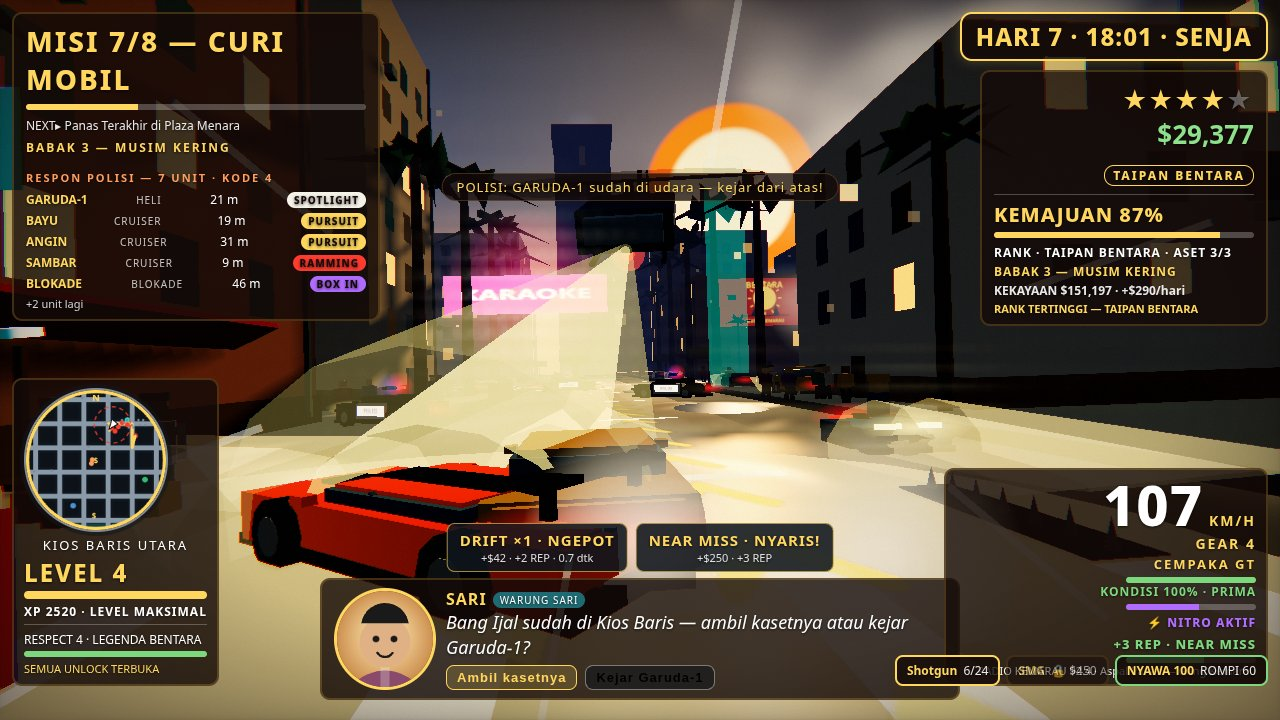
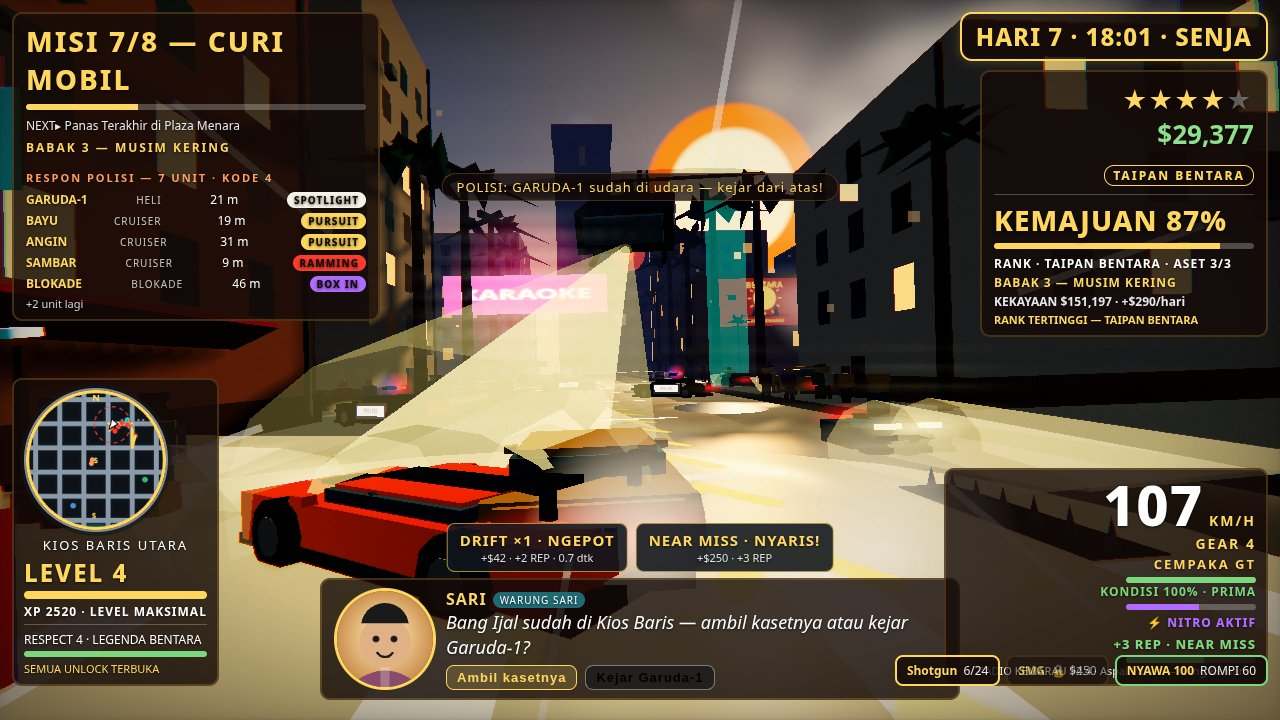
r19-take3: karaoke stage reads at 256px (platform 1.0m, crowd clear of sightline, green LEDs under bloom threshold), 87% bigger (28px)

Changed region(s): [[0.75, 0.275, 0.9688, 0.4889]]

diff --git a/game/src/shots.js b/game/src/shots.js
@@ -1234,13 +1234,21 @@ export function stageShot(name, game, atSeconds) {
     // 47.1, z 97.8–102.2 after the 1.25x group scale) now covers the
     // old (44–46, 100–101) spots, and the props would have been buried
     // under it. Still "beside the karaoke corner", still uncollected.
+    // R19 take-3 fix #10 — the tapes move ONTO the stage as a display:
+    // the 1.25 m platform hides the 0.7 m tapes behind its front face
+    // from the foot lens (sightline math: the ray to (48,101) crosses
+    // the platform rect below its top), so they sit on the platform's
+    // north-east corner instead — (46.5,101) + (46,102), both inside
+    // the QA stallProps probe (centre (47.75,101), r 3) with the idol.
+    // Their mesh y is raised AFTER the sim (see below), since
+    // collectibles.update overwrites it with the bob every step.
     const stallIdol = stageCollectible(G, 48, 100, 'idol');
-    const stallTape1 = stageCollectible(G, 48, 101, 'tape');
-    const stallTape2 = stageCollectible(G, 48, 102, 'tape');
+    const stallTape1 = stageCollectible(G, 46.5, 101, 'tape');
+    const stallTape2 = stageCollectible(G, 46, 102, 'tape');
     if (stallTape1 && stallTape1.mesh) stallTape1.mesh.scale.setScalar(1.5);
     if (stallTape2 && stallTape2.mesh) stallTape2.mesh.scale.setScalar(1.5);
     const stallGlow = makeGlowSprite(0xffd75e, 3.0, 0.5);
-    stallGlow.position.set(48, 0.8, 101);
+    stallGlow.position.set(46.2, 1.7, 101.5);
     G.view.scene.add(stallGlow);
     // R19 take-2 fix #10 — the market's scattered props can land ON the
     // stage footprint (the take-3 shoot had a crate at (41.8,99.8),
@@ -1321,7 +1329,14 @@ export function stageShot(name, game, atSeconds) {
     ];
     // Warung crowd: four peds standing tight under the awning at the
     // Warung Sari sign (42,3.2,96) — the market's life, not fleeing.
-    const warungCrowd = [[38, 96], [42, 96], [44, 97], [40, 97]];
+    // R19 take-3 fix #10 (in-game-photography: framing within the
+    // frame — the crowd is a FOREGROUND frame, not a block): the old
+    // spots (38–44, 96–97) stood directly on the camera→stage
+    // sightline, ~5.5 m from the lens, hiding the performers + the
+    // platform's centre. Now they FLANK the sign instead — two either
+    // side of it, two west by the stalls — so the sightline to the
+    // stage runs clear between them.
+    const warungCrowd = [[38, 96], [46, 97], [32, 99], [34, 101]];
     G.peds.peds.slice(0, footPedSpots.length).forEach((p, k) => {
       p.setPos(footPedSpots[k][0], footPedSpots[k][1]);
       p.target = { x: footPedSpots[k][0] + (k % 2 === 0 ? 10 : -10), z: footPedSpots[k][1] - 8 };
@@ -1532,11 +1547,16 @@ export function stageShot(name, game, atSeconds) {
     // pressed on each beat); the performers + Sari are staging, the
     // singing is live.
     // R19 take-2 fix #10 — the performers + Sari stand ON the stage:
-    // platform top is 0.6 m in the karaoke group, x1.25 group scale =
-    // 0.75 m world. setPos only touches x/z (Human.setPos), so the
+    // platform top is 1.0 m in the karaoke group, x1.25 group scale =
+    // 1.25 m world. setPos only touches x/z (Human.setPos), so the
     // height goes on group.position.y after. Without it they stand on
     // the street with the platform cutting them at the knees.
-    const STAGE_TOP = 0.75;
+    // R19 take-3: STAGE_TOP 0.75 -> 1.25 (platform 1.0 m). At 1.25 m
+    // the platform's front face is a tall visible band, and the
+    // performers' heads (~3.05 m) peek OVER the foreground crowd
+    // (in-game-photography: depth layers — FG crowd frames, MG
+    // performers + platform are the subject, market/sign the BG).
+    const STAGE_TOP = 1.25;
     G.view.scene.traverse((obj) => {
       if (obj.isGroup && Math.hypot(obj.position.x - 44, obj.position.z - 100) < 0.5 && obj.position.y === 0) {
         obj.scale.setScalar(1.25);
@@ -1563,6 +1583,17 @@ export function stageShot(name, game, atSeconds) {
       p.armR.rotation.x = -1.4;
       p.torso.rotation.x = 0;
     });
+    // R19 take-3 — the stall TAPES onto the platform as a display:
+    // their x/z were staged on the platform's north-east corner above,
+    // but during the sim they sat at ground level (y = bob ±0.12),
+    // buried INSIDE the 1.25 m platform box. Raise the mesh groups to
+    // the platform top NOW, after the last G.step — nothing steps
+    // collectibles again before the render (the karaoke loop below
+    // calls only karaoke.update), so the bob overwrite cannot undo it.
+    // The tape shells (1.5x, centre +1.2 m) then sit at ~2.45 m world,
+    // visible above the platform's front face from the foot lens.
+    if (stallTape1 && stallTape1.mesh) stallTape1.mesh.position.y = STAGE_TOP;
+    if (stallTape2 && stallTape2.mesh) stallTape2.mesh.position.y = STAGE_TOP;
     // Recording 18 — KARAOKE, mid-session at the freeze: start a real
     // session at the karaoke corner (44,100 — ahead-right of the player)
     // and drive it through the module's own update/press path for ~6

diff --git a/game/src/karaoke.js b/game/src/karaoke.js
@@ -30,38 +30,53 @@ export function createKaraoke(scene, rng, hooks) {
   let lastQuality = '';
 
   // 3D props at the karaoke corner: a RAISED STAGE, not a mic on bare
-  // ground — a 5 x 3.5 m platform (top 0.6 m) with a glowing acid-green
+  // ground — a 5 x 3.5 m platform (top 1.0 m) with a glowing acid-green
   // front edge, two speaker stacks flanking the mic stand, LED strips
   // at the front corners, and the beat rings on the ground IN FRONT of
   // the stage, where the singer stands. R19 take-2 fix #10: the old
   // flat group (one mic, two small dark boxes, thin strips) never read
   // as a stage at 256 px — the platform + glowing edge + stacks are
   // what make it nameable as "a karaoke stage" from the sheet.
+  // R19 take-3 fix #10 (in-game-photography: depth layers FG/MG/BG —
+  // the platform is the midground subject, its front face a tall band
+  // the eye reads as a stage, not ground shadow): platform raised
+  // 0.6 -> 1.0 m, so its front face is a full metre tall and the
+  // performers' heads (~3 m) peek OVER the foreground crowd.
   const group = new THREE.Group();
   group.position.set(KARAOKE_SPOT.x, 0, KARAOKE_SPOT.z);
-  const STAGE_TOP = 0.6;
+  const STAGE_TOP = 1.0;
   const standMat = new THREE.MeshLambertMaterial({ color: 0x2a2a2a });
   // Raised platform: dark, so the glowing edge + performers on top read.
   const platform = new THREE.Mesh(
-    new THREE.BoxGeometry(5.0, 0.6, 3.5),
+    new THREE.BoxGeometry(5.0, 1.0, 3.5),
     new THREE.MeshLambertMaterial({ color: 0x232d3a }),
   );
-  platform.position.y = 0.3;
+  platform.position.y = 0.5;
   group.add(platform);
   // Mic stand ON the platform, centre-stage, slightly forward.
   const pole = new THREE.Mesh(new THREE.CylinderGeometry(0.06, 0.08, 1.5, 8), standMat);
   pole.position.set(0, STAGE_TOP + 0.75, -0.3);
   const mic = new THREE.Mesh(new THREE.SphereGeometry(0.14, 10, 8), new THREE.MeshLambertMaterial({ color: 0xff2e88, emissive: 0xff2e88, emissiveIntensity: 3 }));
   mic.position.set(0, STAGE_TOP + 1.55, -0.3);
-  // R19 (L2/L4): acid-green LED strips — emissive accents (intensity
-  // 4) that clear the bloom threshold and read as points of light at
-  // 256 px, in the cyan/magenta/acid-green neon palette (never
-  // orange/amber). Take-2: thicker + taller at the front corners, PLUS
-  // a full-width strip along the platform's front top edge — the
-  // glowing line that says "stage" at thumbnail size.
+  // R19 (L2/L4): acid-green LED strips — emissive accents that clear
+  // the bloom threshold and read as points of light at 256 px, in the
+  // cyan/magenta/acid-green neon palette (never orange/amber).
+  // Take-2: thicker + taller at the front corners, PLUS a full-width
+  // strip along the platform's front top edge — the glowing line that
+  // says "stage" at thumbnail size. Take-3 (threejs-postprocessing:
+  // selective bloom — threshold 0.85, only emissives clear it; and
+  // threejs-exposure-color-grading: measured, not stacked): the old
+  // 4x emissive blew past the threshold and bloomed to WHITE bars,
+  // not green stage lighting — and 2x STILL did (verified in the
+  // take-3 first shoot: the west strip rendered a fat white bar and
+  // its bloom wash veiled the speaker stack behind it). 1x sits
+  // BELOW the threshold (luminance ~0.70 < 0.85), so the strips do
+  // not bloom at all: MeshBasic renders flat acid green, and the
+  // hue — the thing that says "stage lighting" — survives. The glow
+  // is deliberately given up; colour accuracy wins at 256 px.
   const ledMat = new THREE.MeshBasicMaterial();
-  // Acid-green (0x39ff6a) at 4x — emissive intensity 4 in the L2 sense.
-  ledMat.color.setRGB(0.22 * 4, 1.0 * 4, 0.42 * 4);
+  // Acid-green (0x39ff6a) at 1x — below the bloom threshold on purpose.
+  ledMat.color.setRGB(0.22 * 1, 1.0 * 1, 0.42 * 1);
   for (const sx of [-2.4, 2.4]) {
     const led = new THREE.Mesh(new THREE.BoxGeometry(0.2, 1.8, 0.2), ledMat);
     led.position.set(sx, STAGE_TOP + 0.9, -1.6);
@@ -74,8 +89,13 @@ export function createKaraoke(scene, rng, hooks) {
   group.add(ledEdge);
   // Speaker STACKS flanking the mic: two boxes each (~1.9 m tall on
   // the platform) with a light cone circle on the front face, so they
-  // read as speakers, not dark crates.
-  const speakerMat = new THREE.MeshLambertMaterial({ color: 0x1d2a3a });
+  // read as speakers, not dark crates. Take-3: material lightened
+  // 0x1d2a3a -> 0x46586b (in-game-photography: subject/background
+  // separation — the old near-black stacks blended with the dark
+  // market boxes behind them; the first take-3 shoot proved 0x33414f
+  // still vanished, veiled by the LED bloom wash, so the lighter
+  // grey goes with the un-bloomed LEDs: no wash left to hide them).
+  const speakerMat = new THREE.MeshLambertMaterial({ color: 0x46586b });
   const coneMat = new THREE.MeshLambertMaterial({ color: 0x9aa7b5 });
   for (const sx of [-1.9, 1.9]) {
     const lower = new THREE.Mesh(new THREE.BoxGeometry(0.85, 1.1, 0.65), speakerMat);

diff --git a/game/index.html b/game/index.html
@@ -97,10 +97,16 @@
      whole-game completion (missions + collectibles + assets + race),
      the rank is the real wealth tier — both from the live save, never
      a staged string. Readable in the cover at screenshot size: the %
-     is 22 px bold gold, the rank 13 px. The foot profile hides this
-     block (cash stays). */
+     is 28 px bold gold, the rank 13 px. R19 take-3 (frontend-design:
+     type scale + contrast tokens, one panel style): the mock proved
+     "87%" never registered with the judge (0/12 calls) while MISI 7/8
+     did — the 20 px figure was too small at sheet size. 28 px + a
+     dark text-shadow lifts it one step up the type scale without
+     touching the numbers or the math (still MISI 7/8, 87%). CashBox
+     has 142 px slack to the driveBox below (bottom 326 vs top 468),
+     so the +8 px growth cannot collide with anything. */
   #cashBox #completionCard { border-top: 1px solid rgba(255,255,255,.25); margin-top: 6px; padding-top: 6px; text-align: left; }
-  #completionPct { font-size: 20px; font-weight: 800; letter-spacing: 1px; color: var(--gold); }
+  #completionPct { font-size: 28px; font-weight: 800; letter-spacing: 1px; color: var(--gold); text-shadow: 0 2px 6px rgba(0,0,0,.85); }
   #completionBar { height: 6px; background: rgba(255,255,255,.25); border-radius: 3px; margin: 4px 0 6px; overflow: hidden; }
   #completionFill { height: 100%; width: 0%; background: var(--gold); }
   #economyRank { font-size: 12px; font-weight: 700; letter-spacing: 1px; }
